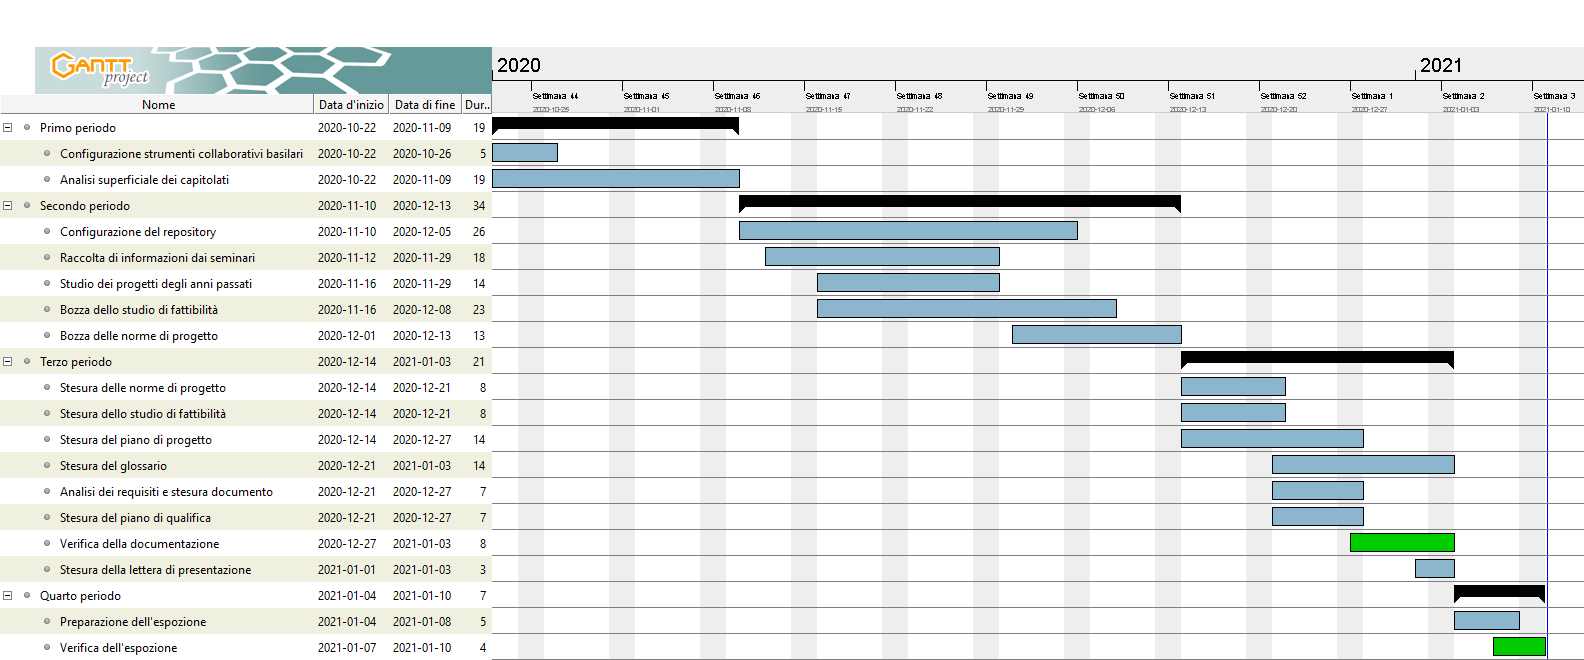
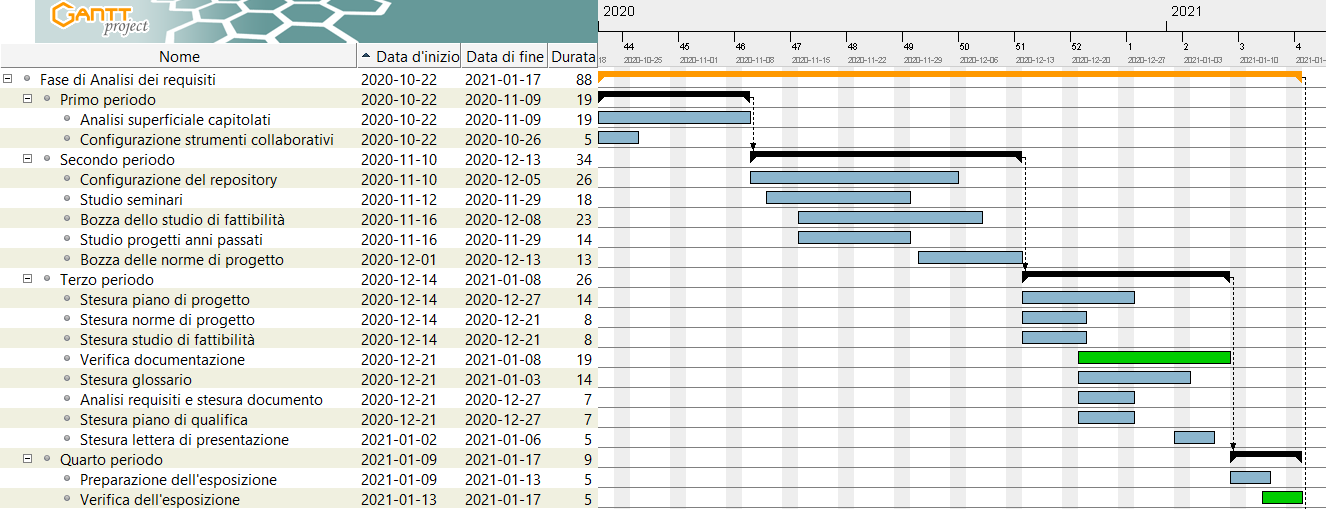
Completata sezione 4 #28

diff --git a/esterni/PianoDiProgetto/res/sections/Pianificazione.tex b/esterni/PianoDiProgetto/res/sections/Pianificazione.tex
@@ -7,6 +7,7 @@ Lo sviluppo del progetto è diviso nelle seguenti fasi consecutive.
 	\item Validazione e collaudo
 \end{enumerate}
 Ogni fase è costituita da periodi, nei quali sono raggruppate le attività da svolgere.
+I periodi e le attività delle prime due fasi sono individuati in maggiore quantità e con una maggiore precisione rispetto a quelli successivi. Questo è dovuto alla difficoltà nel prevedere le modalità e i tempi richiesti dalle fasi più remote del progetto.
 
 \subsection{Analisi dei requisiti (dal 2020-10-22 al 2021-01-17)}
 
@@ -45,11 +46,11 @@ Questo periodo segue la scelta del capitolato da affrontare. E' dedicato alla su
 	\item Stesura delle norme di progetto
 	\item Stesura dello studio di fattibilità
 	\item Stesura del piano di progetto
-	\item Stesura del glossario
 	\item Analisi dei requisiti e stesura dell'omonimo documento
 	\item Stesura del piano di qualifica
-	\item Verifica della documentazione
+	\item Stesura del glossario
 	\item Stesura della lettera di presentazione
+	\item Verifica della documentazione
 \end{itemize}
 
 \paragraph{Quarto Periodo (dal 2020-01-09 al 2020-01-17)}
@@ -82,7 +83,7 @@ Questo periodo è l'ultimo della fase di analisi dei requisiti. Si concentra qui
 
 \subsubsection{Periodi e attività}
 
-\paragraph{Primo Periodo (dal 2021-01-18 al 2021-01-23)}
+\paragraph{Primo Periodo (dal 2021-01-18 al 2021-01-20)}
 \begin{itemize}
 	\item Aggiornamento Norme di progetto
 	\item Aggiornamento Piano di qualifica
@@ -90,22 +91,23 @@ Questo periodo è l'ultimo della fase di analisi dei requisiti. Si concentra qui
 	\item Verifica documentazione
 \end{itemize}
 
-\paragraph{Secondo Periodo (dal 2021-01-24 al 2021-02-16)}
+\paragraph{Secondo Periodo (dal 2021-01-21 al 2021-02-19)}
 \begin{itemize}
 	\item Aggiornamento requisiti
-	\item Ricerca
-	\item Progettazione
+	\item Ricerca: si esegue attività di ricerca sulle architetture più adatte al prodotto da sviluppare e alla soddisfazione dei requisiti richiesti.
+	\item Progettazione: si costruisce un modello del prodotto che si vuole ottenere, definendone l'architettura.
 	\item Verifica
 \end{itemize}
 
-\paragraph{Terzo Periodo (dal 2021-02-17 al 2021-02-25)}
+\paragraph{Terzo Periodo (dal 2021-02-20 al 2021-02-28)}
 \begin{itemize}
 	\item Progettazione Proof of concept
 	\item Codifica Proof of concept
-	\item Verifica Proof of Concept
+	\item Redazione della Technology baseline
+	\item Verifica Proof of Concept e Technology baseline
 \end{itemize}
 
-\paragraph{Quarto Periodo (dal 2021-02-26 al 2021-03-07)}
+\paragraph{Quarto Periodo (dal 2021-03-01 al 2021-03-07)}
 \begin{itemize}
 	\item Stesura Lettera di presentazione
 	\item Verifica Lettera di presentazione
@@ -122,7 +124,7 @@ Questo periodo è l'ultimo della fase di analisi dei requisiti. Si concentra qui
 	\end{figure}
 \end{landscape}
 
-\subsection{Progettazione di dettaglio e codifica (dal 2021-03-01 al 2021-04-08)}
+\subsection{Progettazione di dettaglio e codifica (dal 2021-03-08 al 2021-04-08)}
 
 \subsubsection{Ruoli attivi}
 \begin{itemize}
@@ -136,7 +138,7 @@ Questo periodo è l'ultimo della fase di analisi dei requisiti. Si concentra qui
 
 \subsubsection{Periodi e attività}
 
-\paragraph{Primo Periodo (dal 2021-04-02 al 2021-01-23)}
+\paragraph{Primo Periodo (dal 2021-03-08 al 2021-03-10)}
 \begin{itemize}
 	\item Aggiornamento Norme di progetto
 	\item Aggiornamento Piano di qualifica
@@ -144,18 +146,47 @@ Questo periodo è l'ultimo della fase di analisi dei requisiti. Si concentra qui
 	\item Verifica documentazione
 \end{itemize}
 
-\paragraph{Secondo Periodo (dal 2021-01-24 al 2021-02-16)}
+\paragraph{Secondo Periodo - Incremento I (dal 2021-03-11 al 2021-03-14)}
 \begin{itemize}
-	\item Collaudo
+	\item Codifica della struttura delle componenti: sono implementate quelle funzionalità del web server e dell'applicazione che non necessitano di un'interazione con le altre componenti del sistema. In questo incremento non viene acquisito in modo completo nessun requisito. Questa fase serve come base per gli incrementi successivi.
+	\item Verifica
 \end{itemize}
 
-\paragraph{Terzo Periodo (dal 2021-02-17 al 2021-05-02)}
+\paragraph{Terzo Periodo - Incremento II (dal 2021-03-15 al 2021-03-21)}
+\begin{itemize}
+	\item  - Codifica delle interazioni tra le componenti interne: sono implementate le interazioni tra web server e applicazione per telefono. I requisiti raggiunti in questo periodo sono: R2F1, R2F2, R1F3, R1F5, R1F5.1, R1F5.2, R1F5.3, R1F5.4, R1F5.5, R1F5.6, R1F5.8, R1F5.10, R1F5.11, R1F5.12, R1F5.13, R1F5.14, R1F5.16, R1F5.18, R1F5.20, R1F5.21, R1F6, R1F6.1, R1F6.2, R1F6.3, R1F6.4, R1F6.5, R1F7, R1F7.1, R1F7.2, R1F8, R1F12, R1F12.1, R3F12.2, R1F12.3, R1F13, R1F13.1, R1F13.2, R1F14.1, R1F14.2, R1F12.4
+	\item Verifica
+\end{itemize}
+
+\paragraph{Quarto Periodo - Incremento III (dal 2021-03-22 al 2021-03-29)}
+\begin{itemize}
+	\item Codifica delle interazioni con gli attori esterni: sono implementate le interazioni tra web server e servizio Ethereum e quelle tra applicazione per telefono e tag RFID.
+	I requisiti raggiunti in questo periodo sono: R1F5.7, R1F5.9, R1F5.15, R1F5.17, R1F5.19, R1F9, R1F10, R1F11, R1F11.1, R1F11.2, R1F14
+	\item Verifica
+\end{itemize}
+
+\paragraph{Quinto Periodo - Incremento IV (dal 2021-03-30 al 2021-04-03)}
+\begin{itemize}
+	\item Codifica delle funzionalità secondarie non ancora implementate: questo periodo è dedicato alla soddisfazione dei requisiti opzionali non ancora affrontati.
+	\item Verifica
+\end{itemize}
+
+\paragraph{Sesto Periodo (dal 2021-04-04 al 2021-04-08)}
 \begin{itemize}
 	\item Stesura Lettera di presentazione
 	\item Verifica Lettera di presentazione
 	\item Preparazione presentazione
 	\item Verifica della presentazione
 \end{itemize}
+
+\begin{landscape}
+	\begin{figure}[H]
+		\centering
+		\includegraphics[width=\linewidth]{res/images/ganttFase3.png}
+		\caption{Grafico di Gantt della fase di Progettazione architetturale}
+		\label{fig:Gantt Analisi dei requisiti}
+	\end{figure}
+\end{landscape}
 
 \subsection{Validazione e collaudo (dal 2021-04-09 al 2021-05-09)}
 
@@ -170,7 +201,7 @@ Questo periodo è l'ultimo della fase di analisi dei requisiti. Si concentra qui
 
 \subsubsection{Periodi e attività}
 
-\paragraph{Primo Periodo (dal 2021-04-09 al 2021-04-15)}
+\paragraph{Primo Periodo (dal 2021-04-09 al 2021-04-13)}
 \begin{itemize}
 	\item Aggiornamento Norme di progetto
 	\item Aggiornamento Piano di qualifica
@@ -178,9 +209,10 @@ Questo periodo è l'ultimo della fase di analisi dei requisiti. Si concentra qui
 	\item Verifica documentazione
 \end{itemize}
 
-\paragraph{Secondo Periodo (dal 2021-01-24 al 2021-02-16)}
+\paragraph{Secondo Periodo (dal 2021-04-14 al 2021-04-30)}
 \begin{itemize}
-	\item Collaudo
+	\item Validazione: vengono effettuate le verifiche finali e complessive sul codice prodotto.
+	\item Collaudo: viene effettuato il collaudo degli applicativi prodotti.
 \end{itemize}
 
 \paragraph{Terzo Periodo (dal 2021-05-01 al 2021-05-09)}
@@ -190,4 +222,23 @@ Questo periodo è l'ultimo della fase di analisi dei requisiti. Si concentra qui
 	\item Preparazione presentazione
 	\item Verifica della presentazione
 \end{itemize}
+
+\begin{landscape}
+	\begin{figure}[H]
+		\centering
+		\includegraphics[width=\linewidth]{res/images/ganttFase4.png}
+		\caption{Grafico di Gantt della fase di Validazione e collaudo}
+		\label{fig:Gantt Analisi dei requisiti}
+	\end{figure}
+\end{landscape}
+
+
+\begin{landscape}
+	\begin{figure}[H]
+		\centering
+		\includegraphics[width=\linewidth]{res/images/ganttTotale.png}
+		\caption{Grafico di Gantt dell'intero progetto}
+		\label{fig:Gantt Analisi dei requisiti}
+	\end{figure}
+\end{landscape}
 

diff --git a/esterni/PianoDiProgetto/res/registro.tex b/esterni/PianoDiProgetto/res/registro.tex
@@ -10,7 +10,9 @@
 	\endfirsthead
 
 	% ----- Modificare da qui -----
-	0.2.14 & Completamento della stesura della sezione 5 & 2020-01-05 & Ivan Piacere & Responsabile \\
+	0.2.15 & Completamento stesura sezione 4 & 2020-01-05 & Ivan Piacere & Responsabile \\
+	\hline
+	0.2.14 & Completamento stesura sezione 5 & 2020-01-05 & Ivan Piacere & Responsabile \\
 	\hline
 	0.2.13 & Verifica delle correzioni richieste in §1-§2-§3 & 2020-01-04 & Antonio Badan & Verificatore \\
 	\hline

diff --git a/esterni/PianoDiProgetto/main.tex b/esterni/PianoDiProgetto/main.tex
@@ -13,7 +13,7 @@
 
 \newcommand{\docNome}{ PIANO DI PROGETTO }
 \newcommand{\docNomeProgetto}{ BlockCOVID }
-\newcommand{\docVersione}{0.2.14}
+\newcommand{\docVersione}{0.2.15}
 \newcommand{\docStatus}{in redazione}
 \newcommand{\docUso}{esterno}
 
